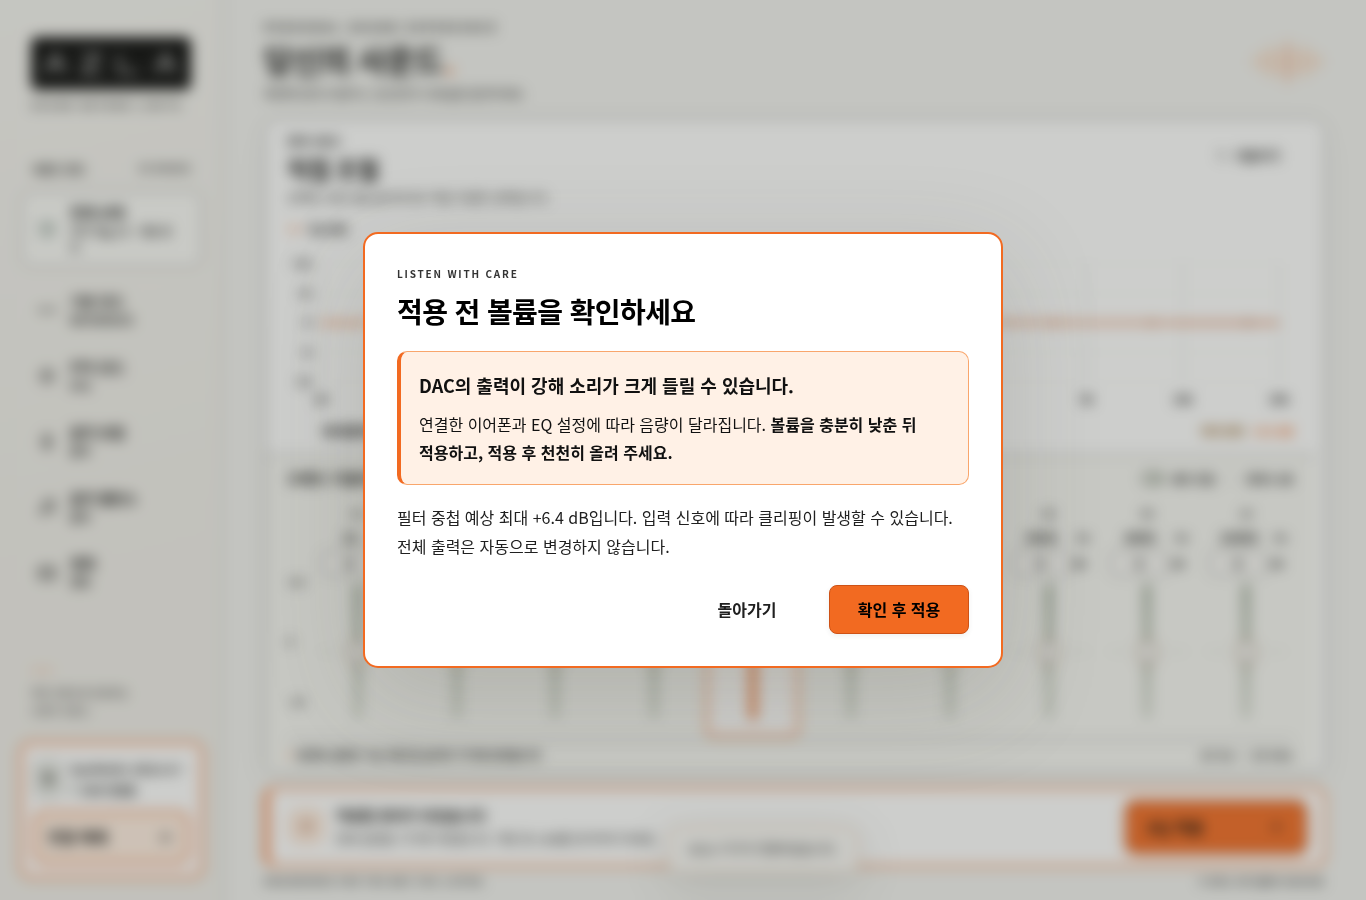
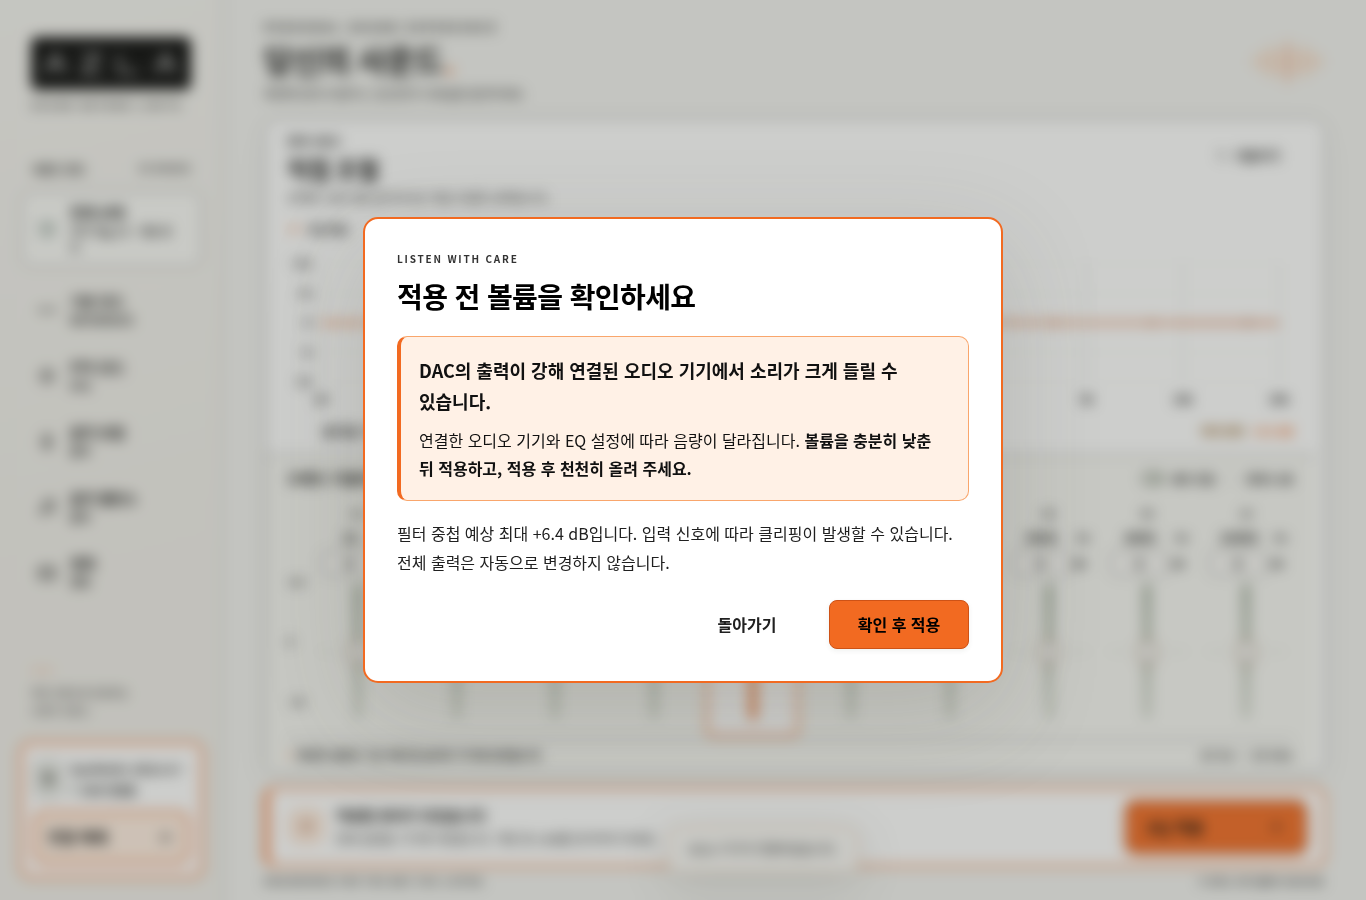
Use audio device wording in volume and EQ guidance

Changed region(s): [[0.246, 0.2178, 0.7379, 0.7778]]

diff --git a/index.html b/index.html
@@ -44,7 +44,7 @@
       <section class="equalizer-panel" aria-labelledby="profileName">
         <div class="profile-header"><div class="profile-intro"><div class="profile-topline"><span class="section-kicker">현재 사운드</span></div><h2 id="profileName">기본 모드</h2><p id="profileDescription">원래의 소리를 그대로. 모든 밴드 0 dB.</p></div><div class="profile-actions"><button id="resetBtn" class="quiet-button" type="button"><svg class="icon"><use href="#icon-reset"/></svg><span>되돌리기</span></button></div></div>
 
-        <div class="chart-section"><div class="chart-toolbar"><div class="chart-legends"><span class="chart-legend"><i class="legend-line"></i>EQ 응답</span><span class="chart-legend measured-legend" id="measurementLegend" hidden><i class="legend-line measured"></i>실측 변화량</span></div></div><div class="chart-wrap"><canvas id="responseChart" width="1200" height="270" aria-label="주파수에 따른 EQ 예상 응답. 아래 10밴드 조절로 변경할 수 있습니다." role="img"></canvas></div><div class="chart-bottom"><span id="modelLabel">이어폰마다 소리 특성이 다르므로, 사용하는 이어폰에 맞게 EQ를 조절해 주세요.</span><span id="peakLabel" class="peak-label">최대 변화 <b>0.0 dB</b></span></div></div>
+        <div class="chart-section"><div class="chart-toolbar"><div class="chart-legends"><span class="chart-legend"><i class="legend-line"></i>EQ 응답</span><span class="chart-legend measured-legend" id="measurementLegend" hidden><i class="legend-line measured"></i>실측 변화량</span></div></div><div class="chart-wrap"><canvas id="responseChart" width="1200" height="270" aria-label="주파수에 따른 EQ 예상 응답. 아래 10밴드 조절로 변경할 수 있습니다." role="img"></canvas></div><div class="chart-bottom"><span id="modelLabel">오디오 기기마다 소리 특성이 다르므로, 사용하는 오디오 기기에 맞게 EQ를 조절해 주세요.</span><span id="peakLabel" class="peak-label">최대 변화 <b>0.0 dB</b></span></div></div>
 
         <div class="controls-section"><div class="controls-heading"><div class="controls-title"><h3>10밴드 이퀄라이저</h3><span class="controls-hint">직접 조절해 보세요</span></div><div class="controls-actions"><label class="switch-label"><input id="advancedToggle" type="checkbox"><span class="switch-track"></span>세부 조절</label><span class="action-divider"></span><button id="flatBtn" class="text-button" type="button">전체 0 dB</button></div></div><div class="bands-scroll"><div class="band-scale" aria-hidden="true"><span>+12</span><span>0</span><span>−12</span></div><div id="bandControls" class="band-controls" aria-label="10밴드 주파수·게인·Q·필터 조절"></div></div><div class="controls-footnote"><span><span class="mini-dot"></span>변경한 설정은 ‘EQ 적용’을 눌러야 기기에 반영됩니다.</span><span>20 Hz — 20 kHz</span></div></div>
       </section>
@@ -60,8 +60,8 @@
     <div class="dialog-kicker">LISTEN WITH CARE</div>
     <h2 id="riskTitle" tabindex="-1" autofocus>적용 전 볼륨을 확인하세요</h2>
     <p id="riskVolumeNotice" class="risk-volume-notice">
-      <strong>DAC의 출력이 강해 소리가 크게 들릴 수 있습니다.</strong>
-      <span>연결한 이어폰과 EQ 설정에 따라 음량이 달라집니다. <b>볼륨을 충분히 낮춘 뒤 적용하고, 적용 후 천천히 올려 주세요.</b></span>
+      <strong>DAC의 출력이 강해 연결된 오디오 기기에서 소리가 크게 들릴 수 있습니다.</strong>
+      <span>연결한 오디오 기기와 EQ 설정에 따라 음량이 달라집니다. <b>볼륨을 충분히 낮춘 뒤 적용하고, 적용 후 천천히 올려 주세요.</b></span>
     </p>
     <p id="riskText">강한 증폭이 포함되어 있습니다. 입력 신호에 따라 클리핑이 발생할 수 있습니다. 전체 출력은 자동으로 변경하지 않습니다.</p>
     <div class="dialog-actions"><button id="cancelRiskBtn" class="quiet-button" type="button">돌아가기</button><button id="confirmRiskBtn" class="primary-button" type="button">확인 후 적용</button></div>

diff --git a/app.js b/app.js
@@ -3,7 +3,7 @@ import { DeviceController, supportedDevices, generateRamPlan, sdkGraphModel, dis
 import { restore, persist, restoreDeviceSnapshot, persistDeviceSnapshot } from './src/storage.js';
 
 const $ = id => document.getElementById(id);
-const EARPHONE_GUIDANCE = '이어폰마다 소리 특성이 다르므로, 사용하는 이어폰에 맞게 EQ를 조절해 주세요.';
+const AUDIO_DEVICE_GUIDANCE = '오디오 기기마다 소리 특성이 다르므로, 사용하는 오디오 기기에 맞게 EQ를 조절해 주세요.';
 const SDK = window.WalkPlayWebEqSDK;
 const safeStorage = {
   getItem: key => { try { return localStorage.getItem(key); } catch { return null; } },
@@ -194,11 +194,11 @@ function refresh(rebuild = false) {
       if (token !== modelToken) return;
       state.model = sdkGraphModel(packets, eq); state.model.freqs = eq.freqs;
       state.peak = peakResponse(state.model); updateGraphLabels(); scheduleDraw(); renderComparison();
-    } catch { if (token === modelToken) $('modelLabel').textContent = EARPHONE_GUIDANCE; }
+    } catch { if (token === modelToken) $('modelLabel').textContent = AUDIO_DEVICE_GUIDANCE; }
   }, 90);
 }
 function updateGraphLabels() {
-  $('modelLabel').textContent = EARPHONE_GUIDANCE;
+  $('modelLabel').textContent = AUDIO_DEVICE_GUIDANCE;
   $('peakLabel').replaceChildren(document.createTextNode('최대 변화 '));
   const number = document.createElement('b'); number.textContent = `${formatDb(state.peak.db)} dB`; $('peakLabel').append(number);
   $('peakLabel').classList.toggle('risk', state.peak.db > 6);
@@ -387,7 +387,7 @@ async function initialize() {
   $('supportStatus').textContent = window.isSecureContext && navigator.hid ? 'WebHID 지원' : 'Windows Chrome / Edge 필요';
   $('sdkStatus').textContent = SDK?.default ? '원본 SDK 준비됨' : '제조사 SDK 본체 추가 필요';
   $('connectionHelp').textContent = [!SDK?.default ? '제조사 SDK 본체가 아직 포함되지 않았습니다.' : '', connectionMode === 'manufacturer' ? '기존 프로그램과 같은 장치 검색 방식을 사용합니다. 사용 중인 AZLA DAC를 선택해 주세요.' : !devices.length ? '최종 제품의 USB 식별 정보 등록이 필요합니다.' : '', configError ? '장치 설정 파일을 읽을 수 없습니다.' : '', 'EQ 적용을 누르면 현재 설정 1개를 기기에 저장합니다.'].filter(Boolean).join(' ');
-  const note = document.createElement('p'); note.className = 'help-text preset-reference-note'; note.textContent = `${PRESET_REFERENCE}. FPS는 공개 게임 음향 분석을 참고해 6kHz 대역을 사용하며, 모든 모드는 핵심 대역을 강조한 시작값입니다. 사용하는 이어폰에 맞게 조절해 주세요.`;
+  const note = document.createElement('p'); note.className = 'help-text preset-reference-note'; note.textContent = `${PRESET_REFERENCE}. FPS는 공개 게임 음향 분석을 참고해 6kHz 대역을 사용하며, 모든 모드는 핵심 대역을 강조한 시작값입니다. 사용하는 오디오 기기에 맞게 조절해 주세요.`;
   $('settingsDialog').querySelector('.settings-section').append(note);
   const discoverRow = document.createElement('div'); discoverRow.className = 'discovery-row';
   const inspect = document.createElement('button'); inspect.type = 'button'; inspect.id = 'inspectDeviceBtn'; inspect.className = 'secondary-button'; inspect.textContent = '연결된 장치 확인';

diff --git a/src/eq.js b/src/eq.js
@@ -13,7 +13,7 @@ export const SAMPLE_RATE = 96000;
 export const FILTERS = Object.freeze({
   1: 'LOW SHELF', 2: 'PEAK', 3: 'HIGH SHELF', 4: 'LOW PASS', 5: 'HIGH PASS'
 });
-export const PRESET_REFERENCE = '공개 음향 자료 기반 자체 설계(2026-11-10) · Q 1.4 · 이어폰별 조절 필요';
+export const PRESET_REFERENCE = '공개 음향 자료 기반 자체 설계(2026-11-10) · Q 1.4 · 오디오 기기별 조절 필요';
 
 function makeEq(gains = Array(BANDS).fill(0), options = {}) {
   return {
